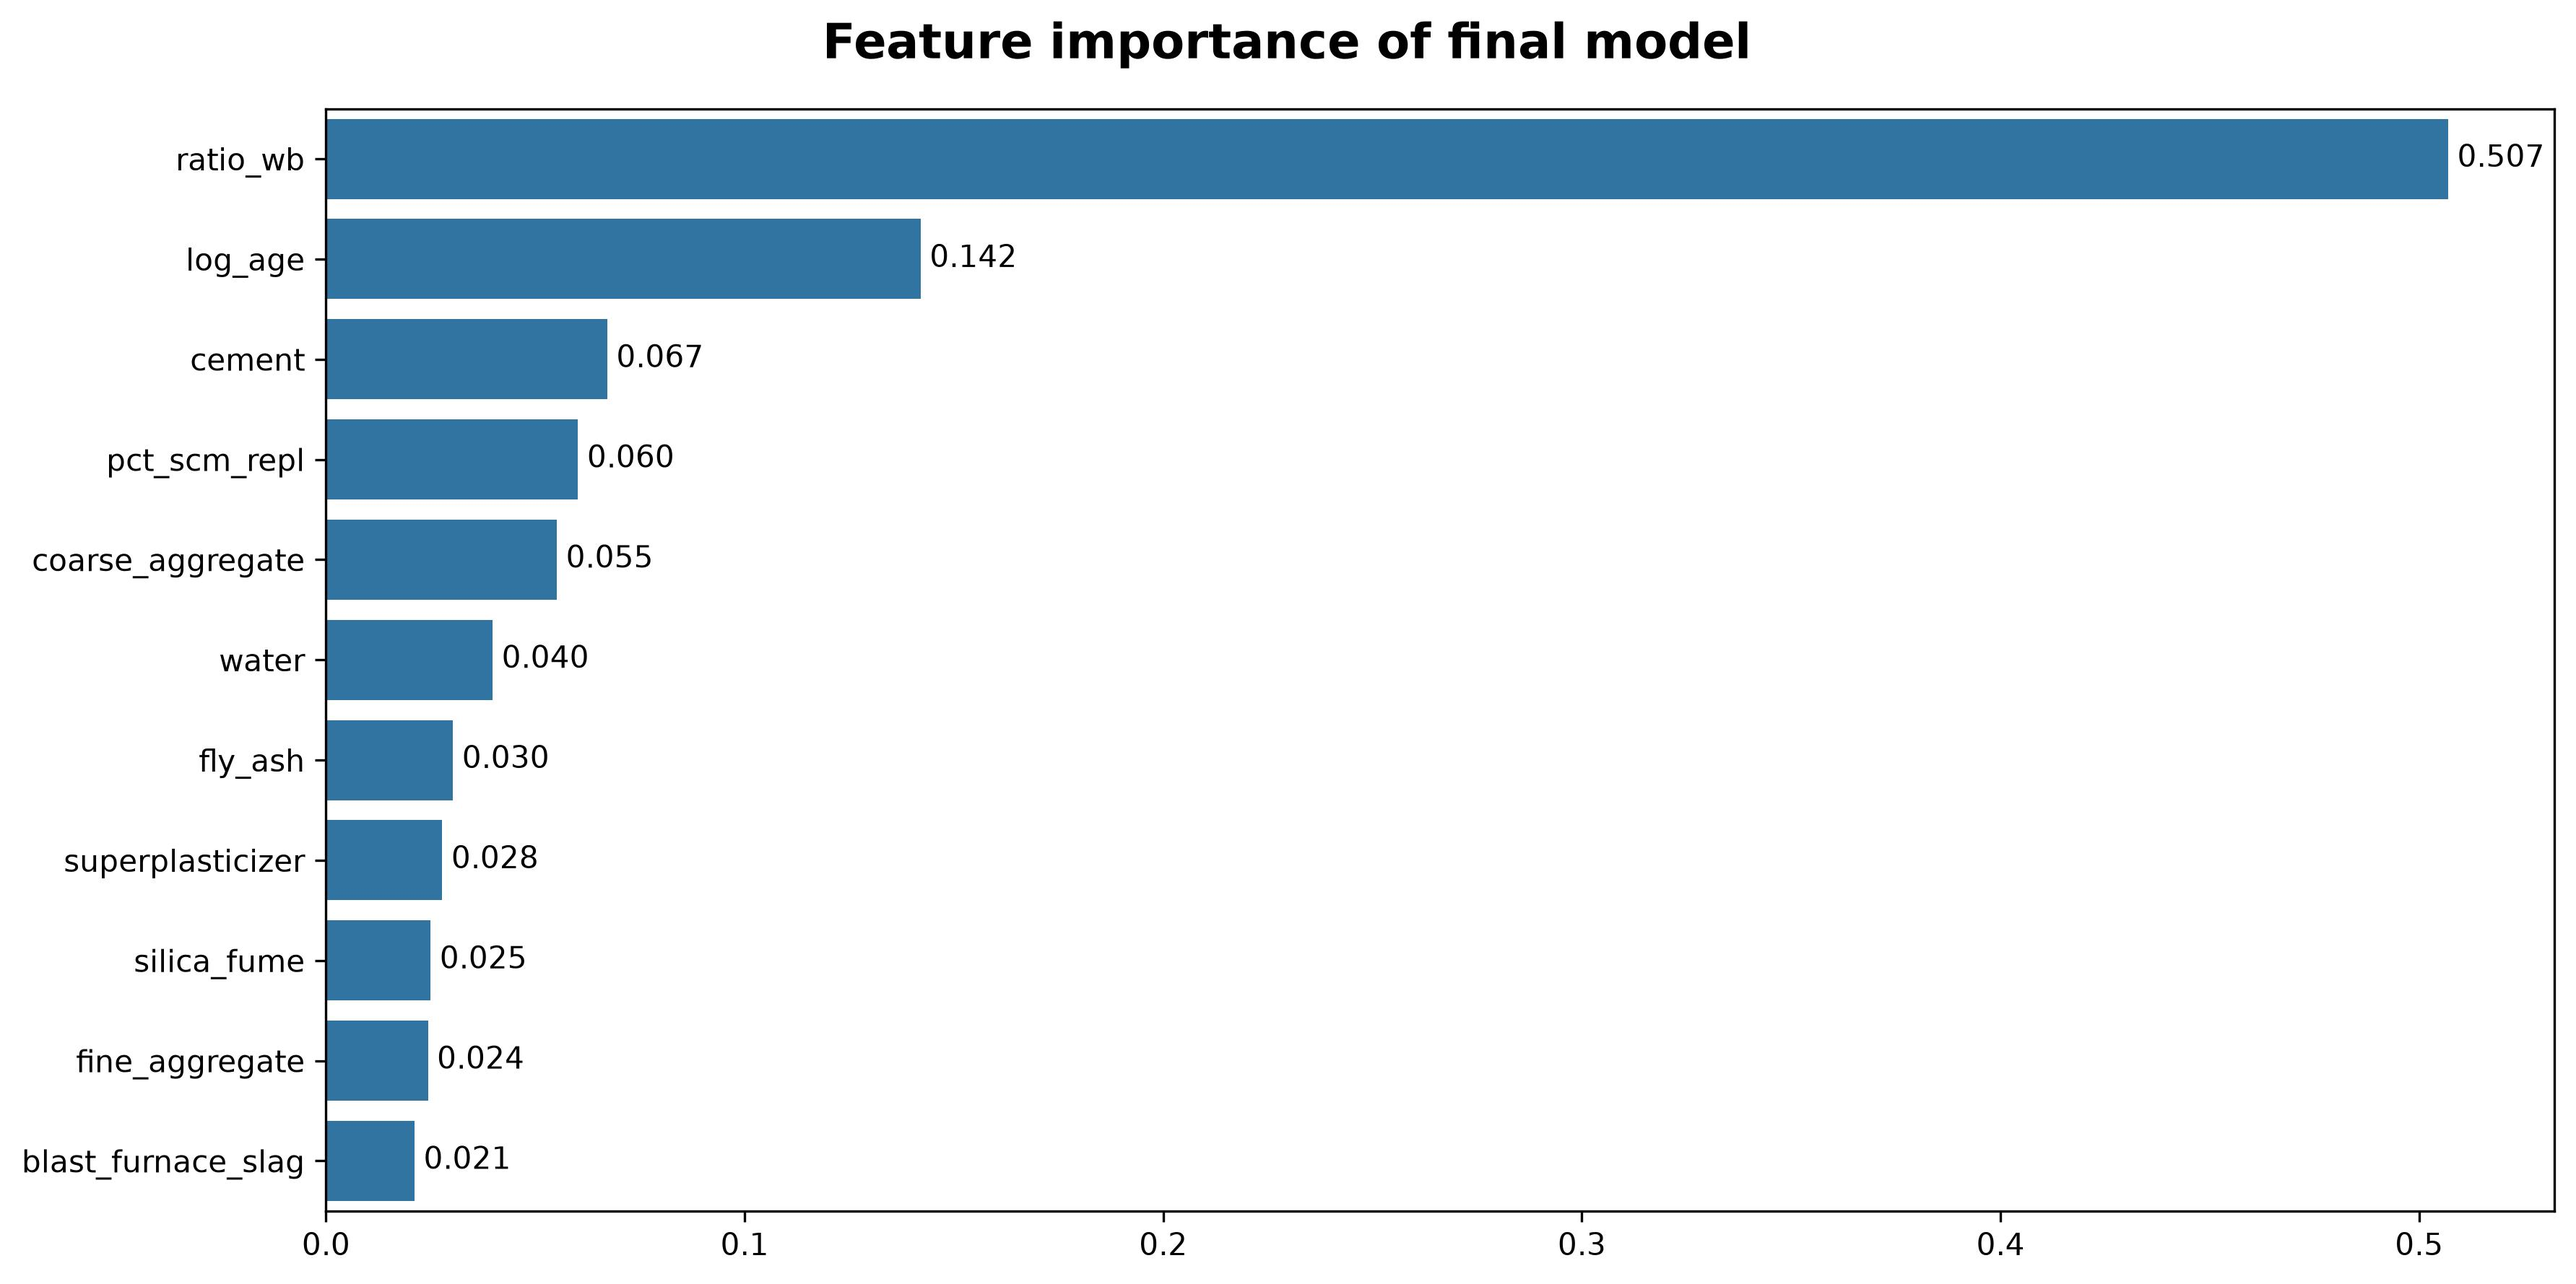
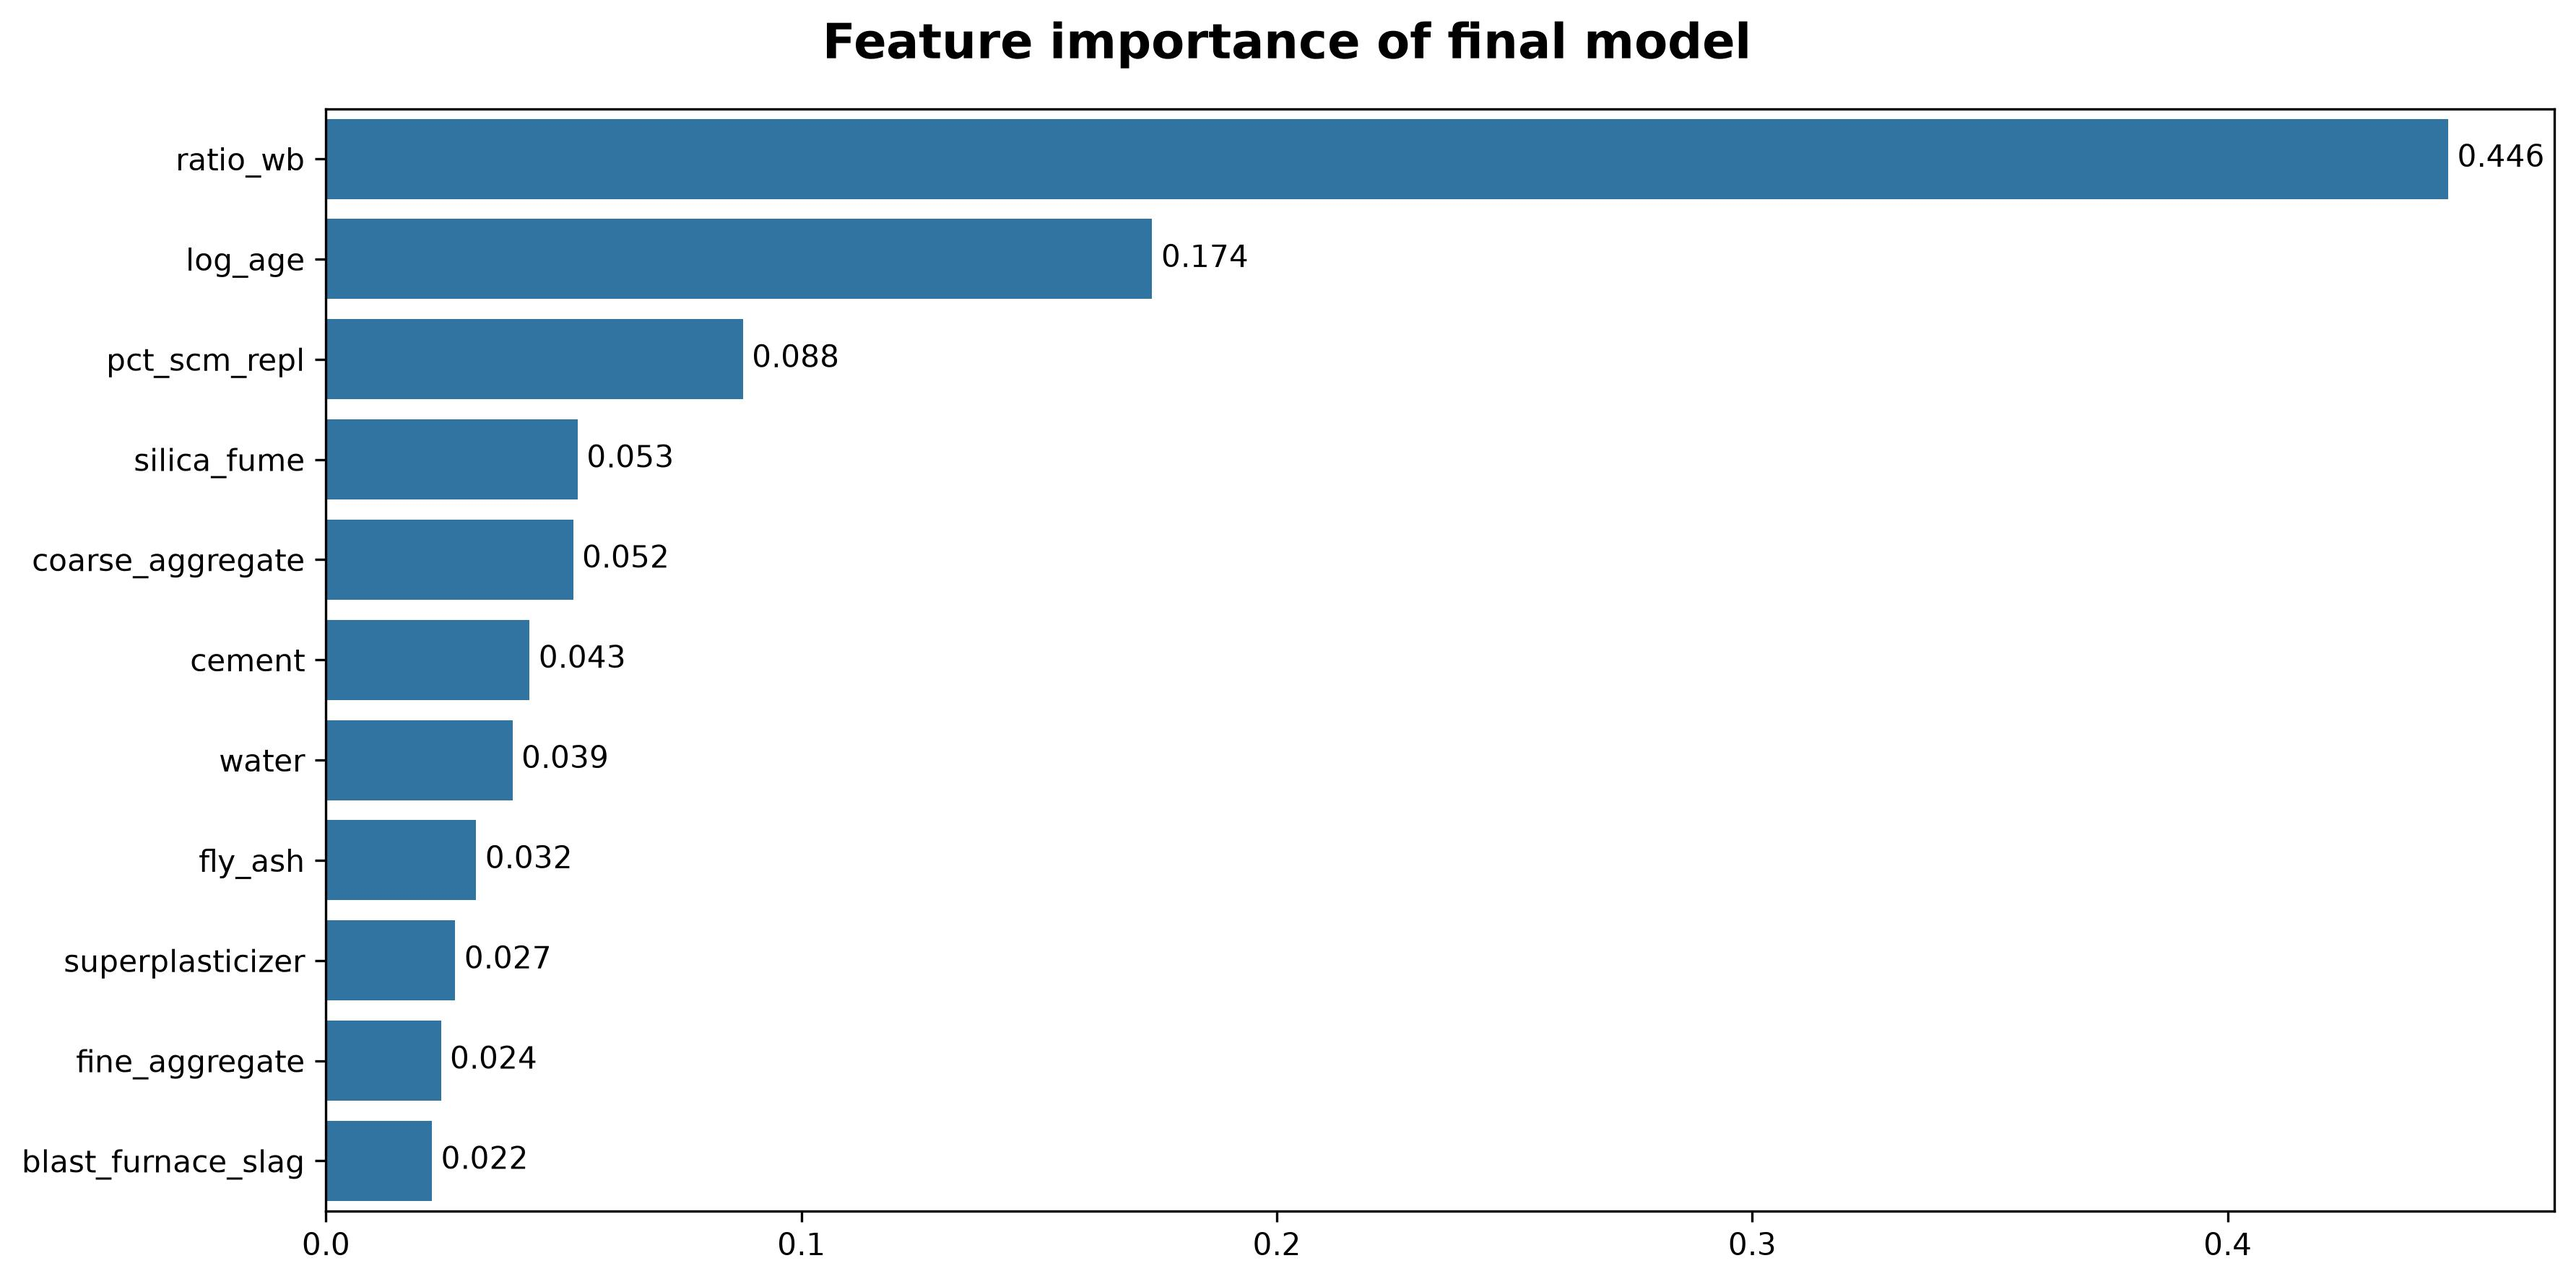
Update documentation

diff --git a/README.md b/README.md
@@ -208,7 +208,7 @@ The final model is **XGBoost** and the best scores obtained during cross-validat
 
 | MAE | RMSE | MAPE | R2 | R2 Adjusted |
 | --- | --- | --- | --- | --- |
-| 3.4006 | 5.2762 | 0.1119 | 0.9227 | 0.9220 |
+| 3.4849 | 5.4300 | 0.1100 | 0.9189 | 0.9182 |
 
 **Feature importance plot**
 ![Feature importance of final model](images/feature_importance_final_model.jpg)
